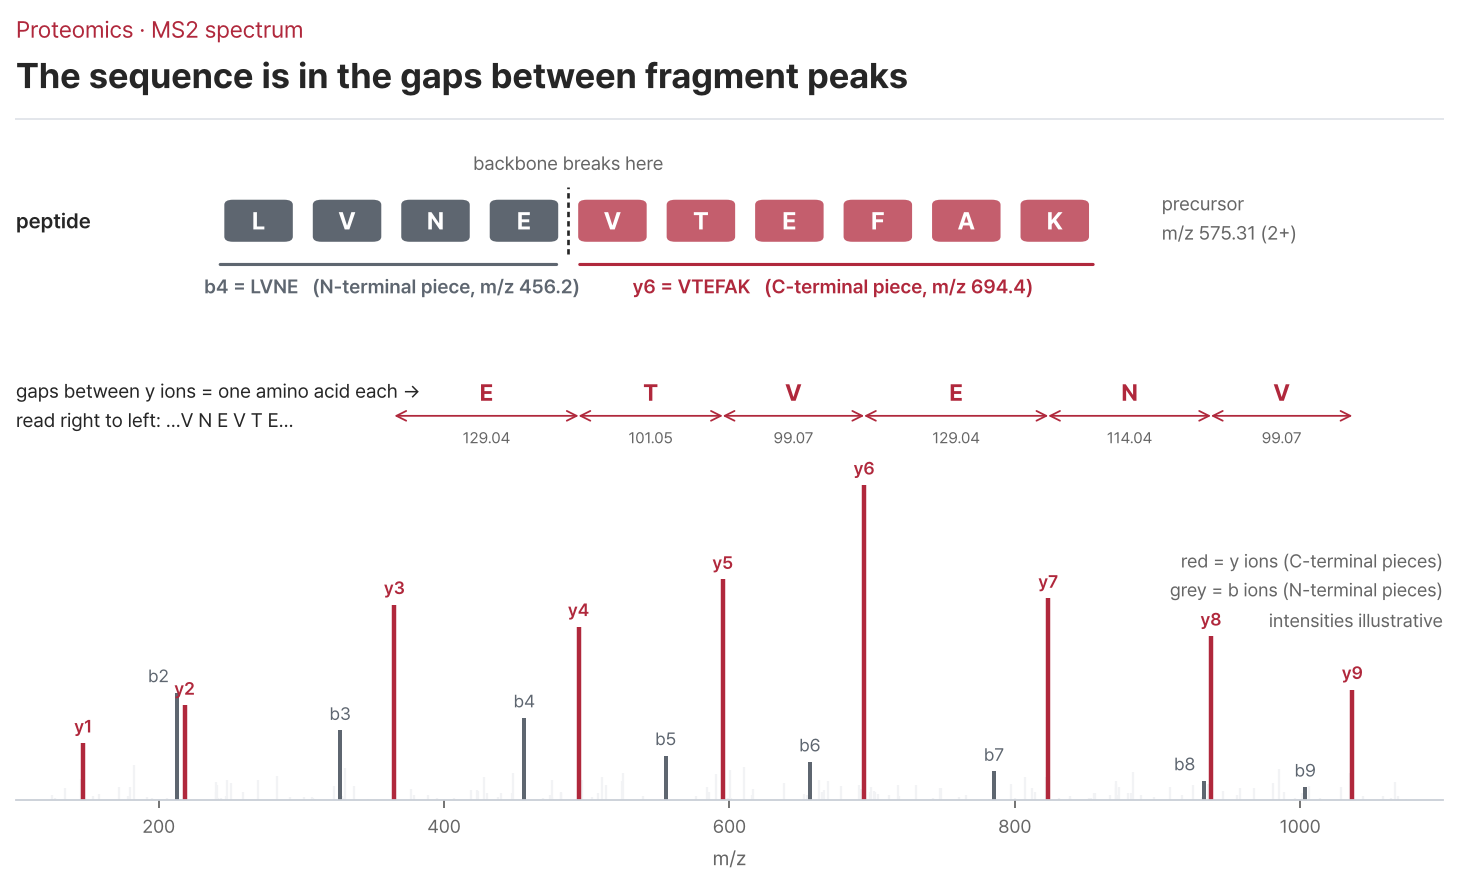
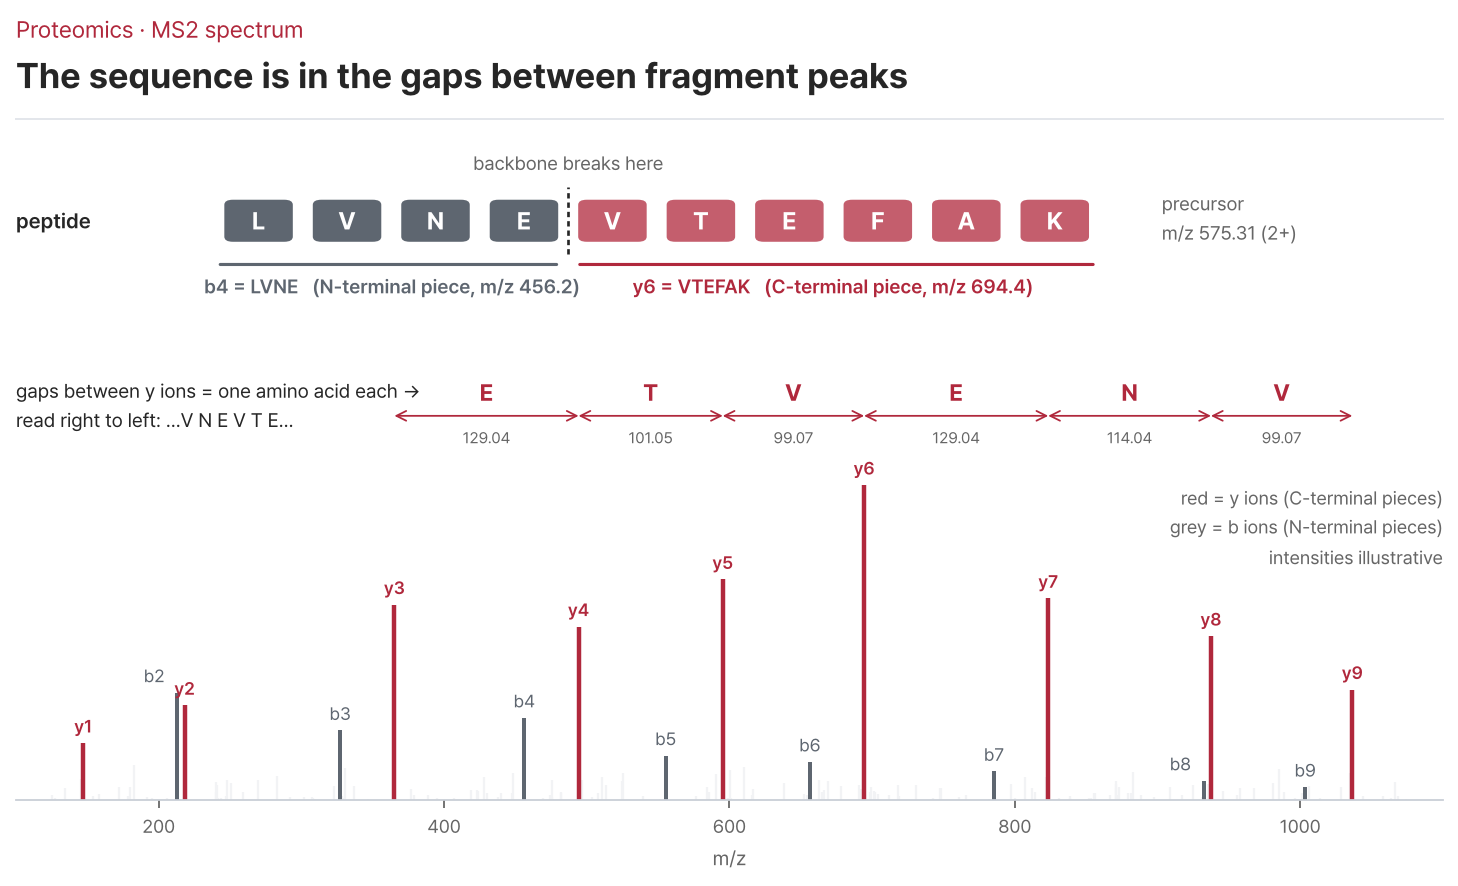
W6 (EN/KO): stress inflated fold changes in §4.2; fix overlapping labels
The missing-values legend covered the hit counts, and two MS2 ladder
labels touched. Text now says what the simulation shows: filling blanks
with a small constant mainly inflates fold changes, and some proteins with
no true change become hits.

Claude-Session: https://claude.ai/code/session_013CY8uA2nZCZhM41r2rJiL2

Changed region(s): [[0.8025, 0.5485, 0.9877, 0.7314], [0.8025, 0.8533, 0.8333, 0.8837]]

diff --git a/figs/m9_ladder.py b/figs/m9_ladder.py
@@ -45,7 +45,7 @@ yh = {i: h for i, h in zip(range(1, L), (18, 30, 62, 55, 70, 100, 64, 52, 35))}
 bh_ = {i: h for i, h in zip(range(1, L), (0, 34, 22, 26, 14, 12, 9, 6, 4))}
 for i in range(2, L):
     s.vlines(b_ion[i], 0, bh_[i], color=DARK, lw=1.8)
-    off = -6 if i in (2, 8) else 0
+    off = -9 if i in (2, 8) else 0
     s.text(b_ion[i] + off, bh_[i] + 2, f"b{i}", ha="right" if off else "center", va="bottom", fontsize=8, color=DARK)
 for i in range(1, L):
     s.vlines(y_ion[i], 0, yh[i], color=CRIMSON, lw=2)
@@ -64,7 +64,7 @@ for sp in ("left", "top", "right"): s.spines[sp].set_visible(False)
 s.spines["bottom"].set_color(LINE); s.tick_params(colors=TEXT2, labelsize=8.3)
 s.text(100, 134, "gaps between y ions = one amino acid each →\nread right to left: …V N E V T E…", ha="left",
        va="top", fontsize=8.8, color=TEXT, linespacing=1.25)
-s.text(1100, 80, "red = y ions (C-terminal pieces)\ngrey = b ions (N-terminal pieces)\nintensities illustrative",
+s.text(1100, 100, "red = y ions (C-terminal pieces)\ngrey = b ions (N-terminal pieces)\nintensities illustrative",
        ha="right", va="top", fontsize=8.4, color=TEXT2, linespacing=1.3)
 header(t, "Proteomics · MS2 spectrum", "The sequence is in the gaps between fragment peaks", dy=8, x1=1)
 fig.savefig(OUT + "ms2_ladder.png")

diff --git a/figs/m6_missing.py b/figs/m6_missing.py
@@ -57,10 +57,10 @@ b.text(0.98, 0.9, f"{hit.sum()} 'hits' (> 2-fold, p < 0.05)\n{(hit & imp).sum()}
        f"{(hit & (tl == 0)).sum()} have no true change at all",
        transform=b.transAxes, ha="right", va="top", fontsize=8.8, color=CRIMSON, fontweight="semibold",
        linespacing=1.25, bbox=dict(fc="white", ec="none", pad=1.5), zorder=5)
-b.scatter([], [], s=14, color=CRIMSON, label="protein with ≥ 1 imputed value")
-b.scatter([], [], s=14, color=GREYF, label="all values measured")
-b.legend(frameon=True, framealpha=1, edgecolor="none", fontsize=8.3, loc="upper left", bbox_to_anchor=(-0.02, 0.86),
-         labelcolor=TEXT, handletextpad=0.2).set_zorder(5)
+b.scatter([], [], s=14, color=CRIMSON, label="≥ 1 value imputed")
+b.scatter([], [], s=14, color=GREYF, label="all measured")
+b.legend(frameon=False, fontsize=8.3, loc="upper left", bbox_to_anchor=(-0.02, 1.0), labelcolor=TEXT,
+         handletextpad=0.2)
 b.set_xlabel("log₂ fold change (after imputation)", color=TEXT2, fontsize=9)
 b.set_ylabel("−log₁₀ p", color=TEXT2, fontsize=9)
 for sp in ("left", "bottom"): b.spines[sp].set_color(LINE)
